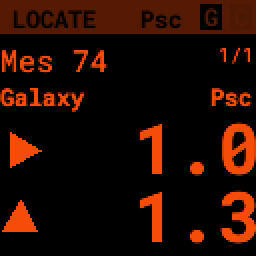
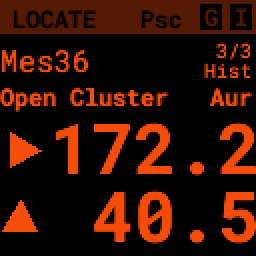
Add docs for list toggle

diff --git a/docs/user_guide.md b/docs/user_guide.md
@@ -20,7 +20,7 @@
 - [How-To](#how-to)
   * [First Time Setup](#first%20time%20setup)
   * [Shutdown and Restart](#shutdown%20and%20Restart)
-  * [Custom lists](#custom-lists)
+  * [Observing lists](#observing%20lists)
 - [FAQ](#faq)
 
 ## Introduction and Overview
@@ -148,7 +148,7 @@ While viewing the chart you can adjust it's appearance and FOV in several ways:
 * _C_ Function key: Toggle constellation line brightness.
 * _D_ Function key: Toggle observing list marker brightness.  This will show markers for DSO objects in your observing list.
 * _UP/DN_ :  Increase or decrees the field of view (zoom).  This ranges from 5 degrees to 60 degrees.
-* Holding the _A_ function key will bring up settings for the chart including the above reticle/constellation brightness 
+* Holding the _A_ function key will bring up settings for the chart including the above reticle/constellation brightness
 
 ### Catalog
 ![Catalog screenshot](../images/screenshots/CATALOG_001_docs.png)
@@ -173,7 +173,7 @@ If the number you have entered matches an object in the catalog, information abo
 
 Use the _D_ key to clear the number field out and start fresh.  If you find an object you are interested in, pressing the _ENT_ key will add it to your target list and switch to the [Locate](#Locate) screen.
 
-Holding the _A_ key for two seconds will bring up the settings for the catalog.  You can filter by apparent altitude, magnitude and object type.  Pressing _A_ will bring you back to the catalog and update the count of objects that match your filter.
+Holding the _A_ key for two seconds will bring up the settings for the catalog.  You can filter by apparent altitude, magnitude and object type.  The Options page also has an action to push the currently filtered catalog to the [Observing](#observing%20lists) list. Pressing _A_ will bring you back to the catalog and update the count of objects that match your filter.
 
 * The _UP/DN_ keys will scroll through the currently filtered objects.
 
@@ -185,8 +185,9 @@ The Locate screen uses the last solve and currently selected target to provide a
 
 Values are expressed in degrees with the top line being rotation in Azimuth and the bottom line in Altitude.  
 
-* _UP/DN_ will cycle through the target list.  The numbers in the upper-right corner of the screen represent the index of the current target / total number of targets in the list
+* _UP/DN_ will cycle through the active list.  The numbers in the upper-right corner of the screen represent the index of the current object / total number of objects in the list and the list name is displayed directly below.
 * _ENT_ will switch back to the catalog screen to access full information about the current target
+* _B_ will toggle between the [History and Observing lists](#observing%20lists)
 
 The currently target is also displayed on the [Chart](#Chart) screen as a small tick mark.
 
@@ -299,8 +300,15 @@ Shutdown and Restart actions are available from the [Options](#options) for the 
 
 Restarting the PiFinder software should not normally be needed, but can be useful for generating a new session id which is included for a photos and logging during a particular execution of the PiFinder software.
 
-#### Custom lists
-Custom observing lists coming soon....
+#### Observing lists
+PiFinder maintains two lists of objects for each observing session; The History list and the Observing list.  
+
+The History list will any object that you set as a target to push-to.  It's added to as soon as you press the _ENT_ key on the catalog screen to select an object.  The main purpose of the History list is to let you scroll back through objects you have observed that session.
+
+The Observing list is a list of objects that is populated from either a filtered catalog or a file on disk.  It's a list of objects you'd like to observe during a session.  
+
+Both these lists start empty at the beginning of each session.  To populate an observing list you can push a filtered list of objects from the [Catalog](#catalog) screen.
+
 
 ## FAQ
 
